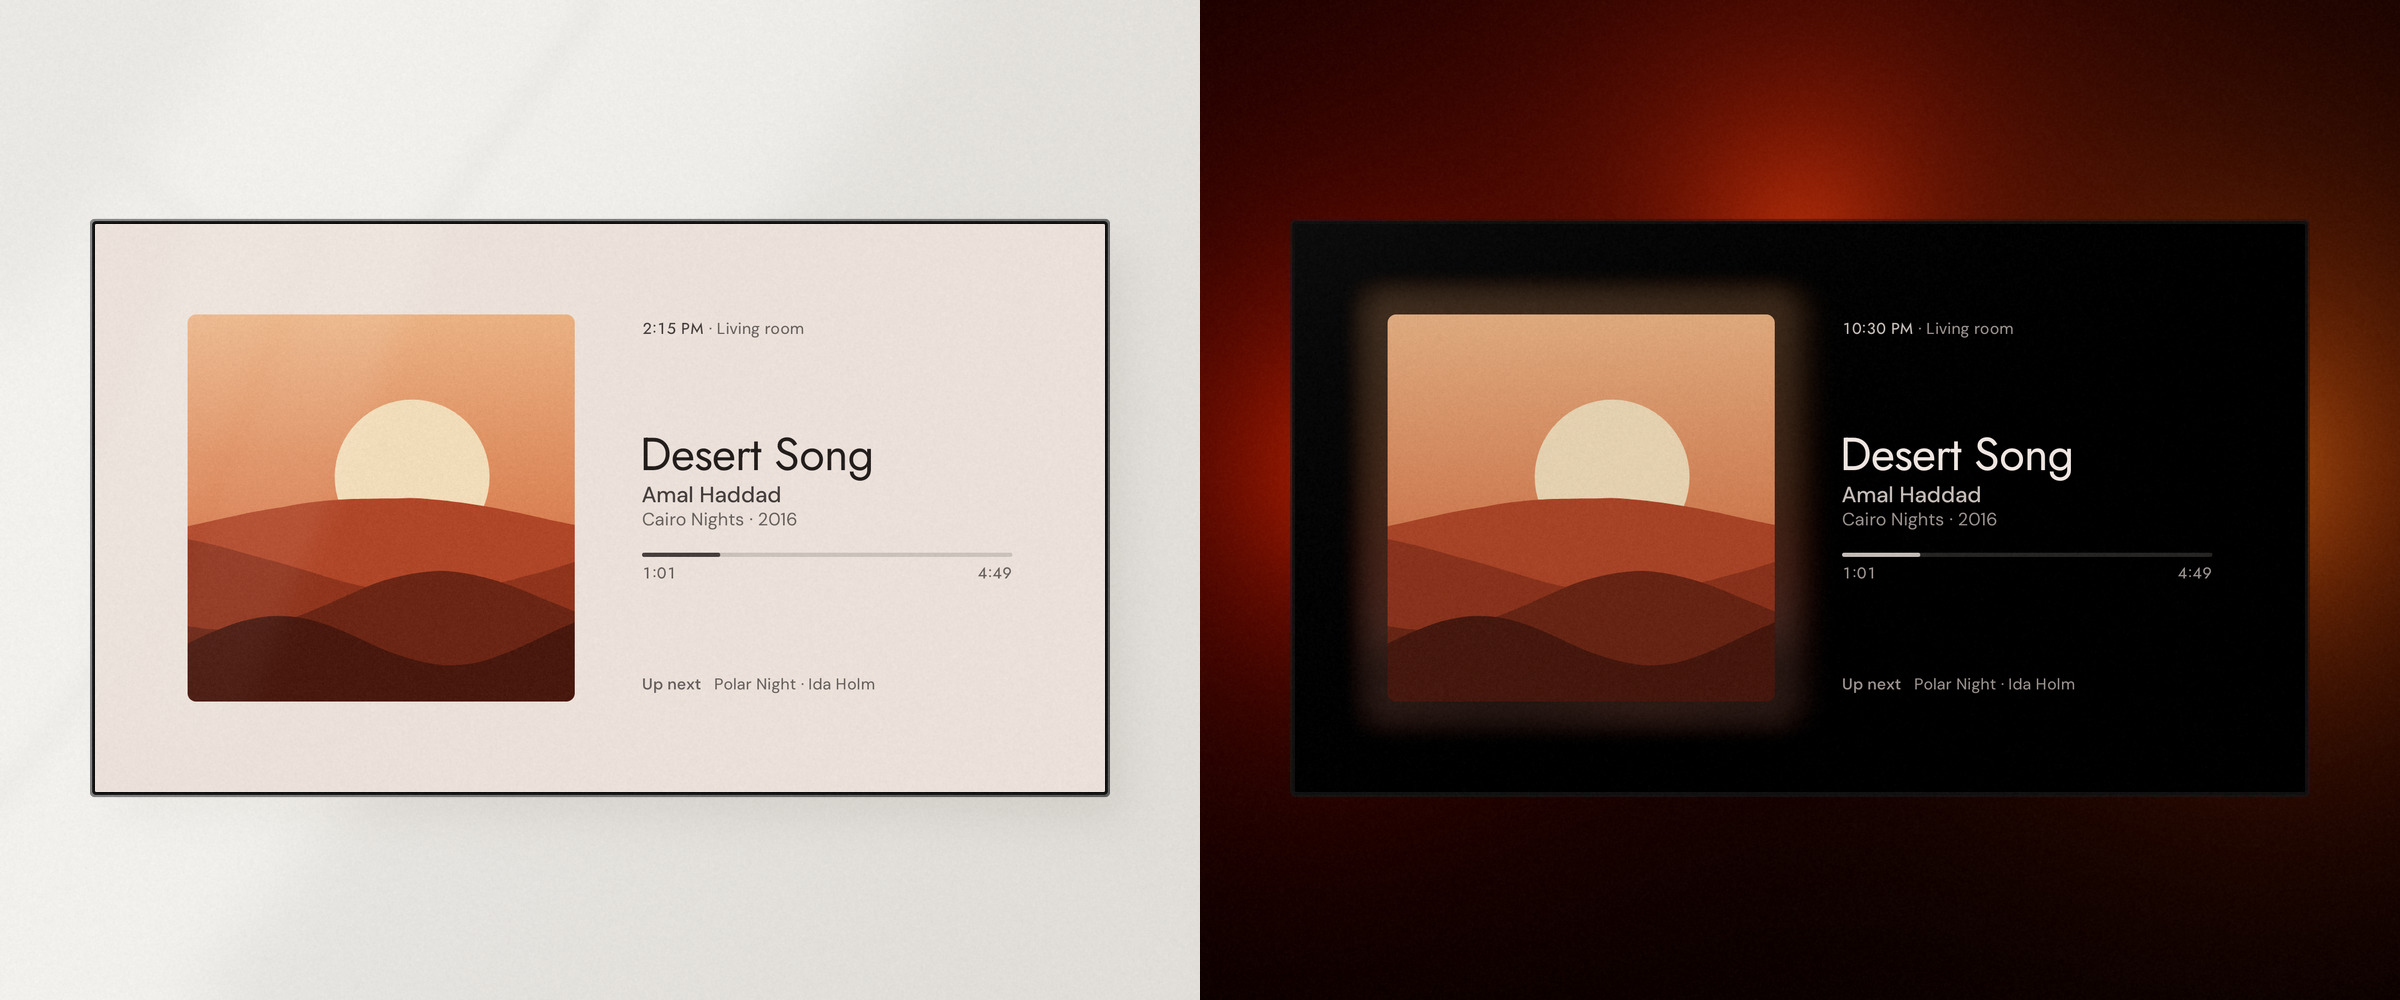
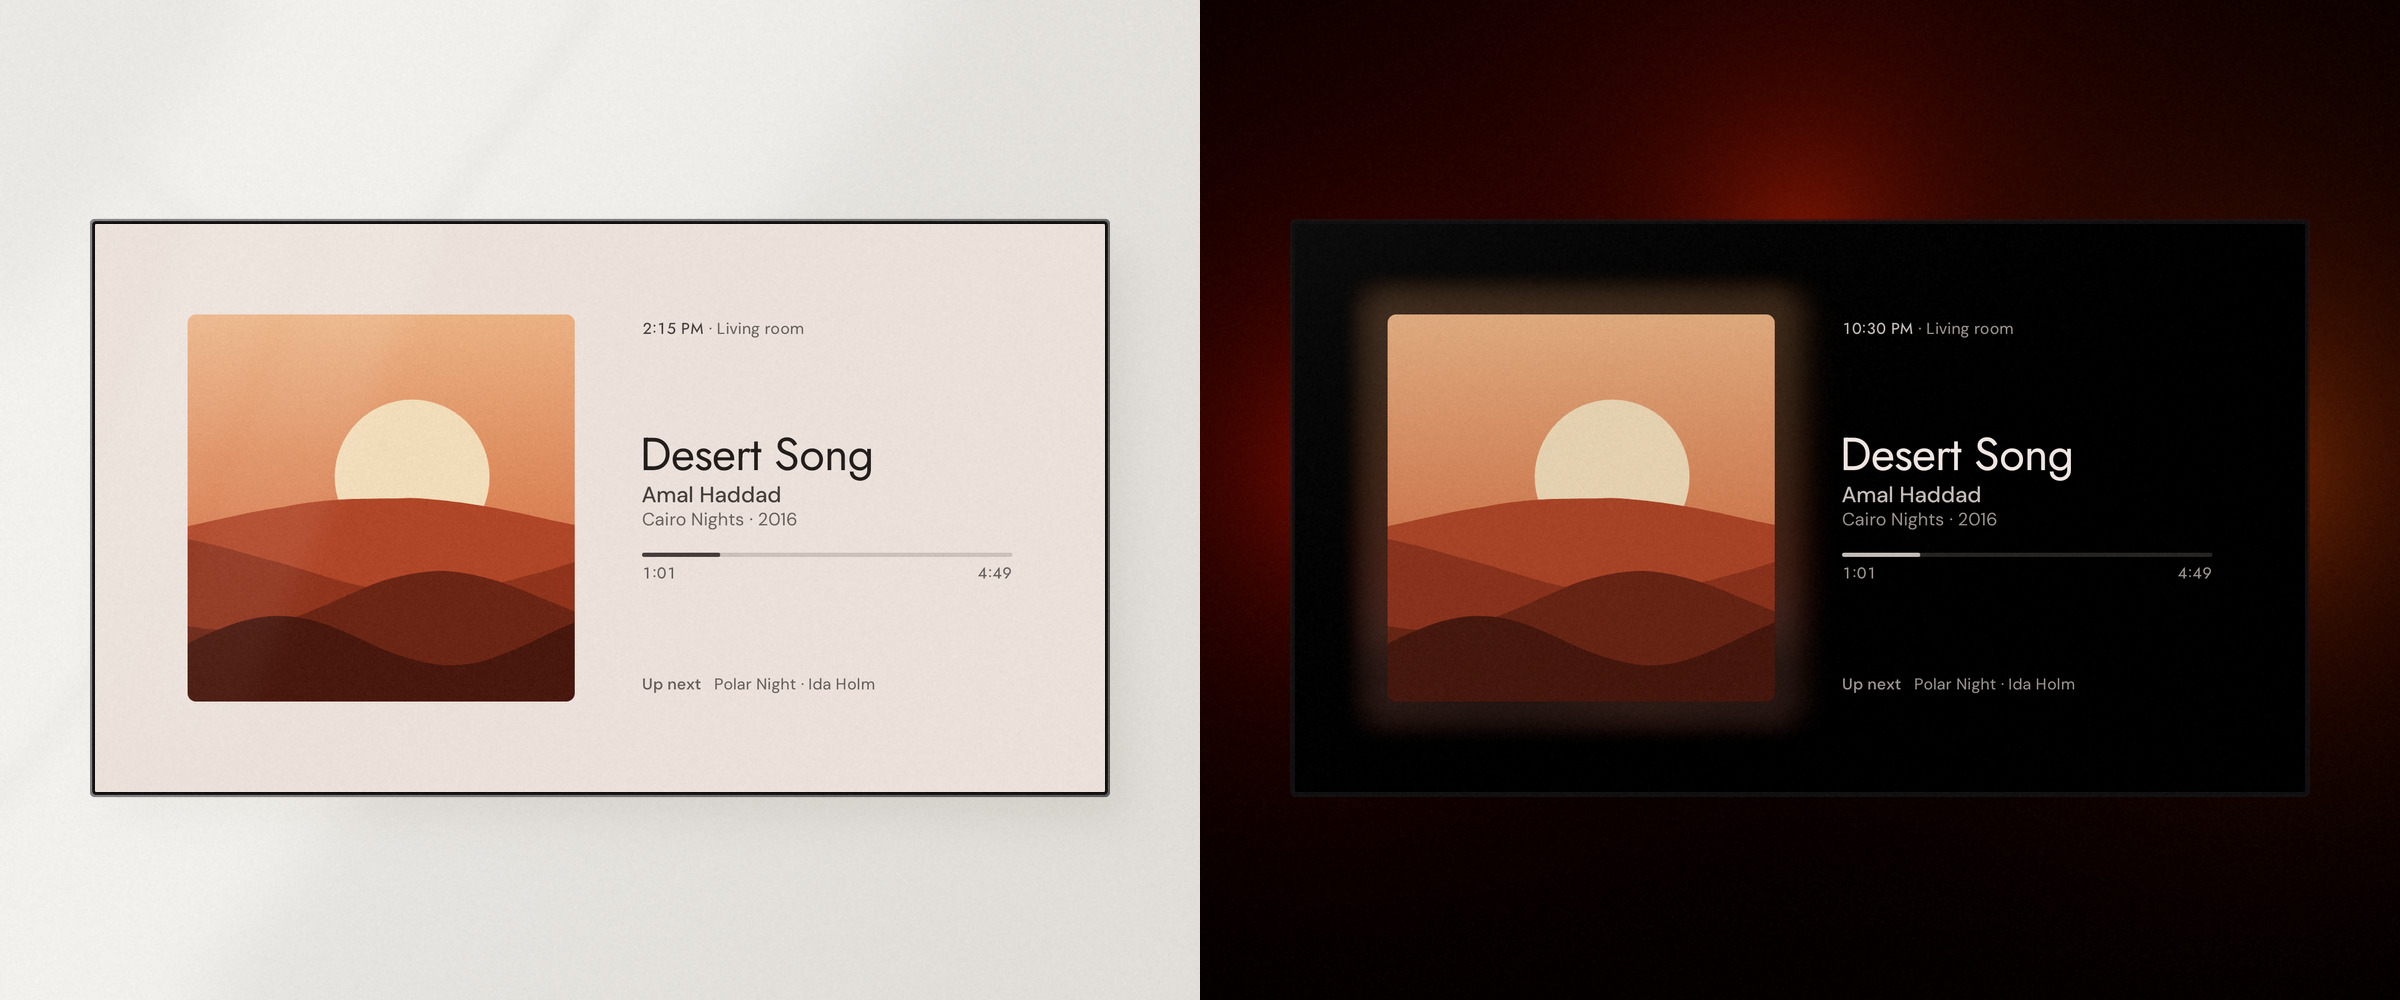
Calmer README pictures, window view by firelight
The lights' colors stay soft on a matte wall, the window view is lit
only by warm light like its campfire's, and the logo in the pictures
and on the download button is the updated one.

Changed region(s): [[0.5, 0.0, 1.0, 0.744]]

diff --git a/app/src/test/java/io/github/hazymorning/klangbild/ui/ReadmeShotsTest.kt b/app/src/test/java/io/github/hazymorning/klangbild/ui/ReadmeShotsTest.kt
@@ -18,16 +18,11 @@ import io.github.hazymorning.klangbild.lights.CoverLightColors
 import io.github.hazymorning.klangbild.lights.LightColor
 import io.github.hazymorning.klangbild.lights.LightColors
 import io.github.hazymorning.klangbild.lights.LightSlot
-import io.github.hazymorning.klangbild.lights.VistaLightColors
 import io.github.hazymorning.klangbild.render.ArtworkScene
 import io.github.hazymorning.klangbild.text.TestTexts
 import io.github.hazymorning.klangbild.ui.stage.Stage
 import io.github.hazymorning.klangbild.ui.vista.VistaScreen
-import io.github.hazymorning.klangbild.vista.PaperLight
-import io.github.hazymorning.klangbild.vista.Place
 import io.github.hazymorning.klangbild.vista.VistaClock
-import io.github.hazymorning.klangbild.vista.WeatherMood
-import io.github.hazymorning.klangbild.vista.World
 import org.junit.Before
 import org.junit.Test
 import org.junit.runner.RunWith
@@ -39,9 +34,9 @@ import java.time.ZonedDateTime
 import java.util.TimeZone
 
 /**
- * The screens in the README's pictures, in English, with the colors the lights behind the TV
- * would show beside each (a JSON file). `tools/make_readme_pictures.py` sets them in a room and
- * saves the pictures to docs/screenshots/ when the look changes.
+ * The screens in the README's pictures, in English; beside each song the colors the lights
+ * behind the TV would show (a JSON file). `tools/make_readme_pictures.py` sets them in a room
+ * and saves the pictures to docs/screenshots/ when the look changes.
  */
 @RunWith(AndroidJUnit4::class)
 @GraphicsMode(GraphicsMode.Mode.NATIVE)
@@ -103,10 +98,6 @@ class ReadmeShotsTest {
         shot("window-view") {
             VistaScreen(ui, ui.vista!!, vistaClock, positionNow = { 213_000L / 3 }, now = { at }, modifier = Modifier.fillMaxSize())
         }
-        val weather = WeatherMood.of("sunny", null, null)!!
-        val look = PaperLight.look(World.sky(at, Place(52.52, 13.40), Fixtures.zone, weather).first)
-        // The mini player stands left, so the fire burns on the right.
-        lights("window-view", VistaLightColors(look, fireOnRight = true), warmth = 1f)
     }
 
     /** One song twice: on the light wall by day and on the dark wall at night. */

diff --git a/tools/make_readme_pictures.py b/tools/make_readme_pictures.py
@@ -57,6 +57,20 @@ def xy_to_rgb(x, y):
     return rgb / rgb.max()
 
 
+def kelvin(k):
+    """The color of warm light of [k] kelvin (Planckian locus, Kim et al.), linear sRGB, peak 1."""
+    t = float(k)
+    x = (-0.2661239e9 / t ** 3 - 0.2343589e6 / t ** 2 + 0.8776956e3 / t + 0.179910) if t <= 4000 else \
+        (-3.0258469e9 / t ** 3 + 2.1070379e6 / t ** 2 + 0.2226347e3 / t + 0.240390)
+    if t <= 2222:
+        y = -1.1063814 * x ** 3 - 1.34811020 * x ** 2 + 2.18555832 * x - 0.20219683
+    elif t <= 4000:
+        y = -0.9549476 * x ** 3 - 1.37418593 * x ** 2 + 2.09137015 * x - 0.16748867
+    else:
+        y = 3.0817580 * x ** 3 - 5.87338670 * x ** 2 + 3.75112997 * x - 0.37001483
+    return xy_to_rgb(x, y)
+
+
 def light_colors(name, vivid=1.0):
     """The lights' colors for a render: left, middle, right (linear sRGB) and how bright each may
     be. [vivid] above 1 takes each a little further from white along its own hue."""
@@ -242,15 +256,16 @@ def tv_frame(img, tv, screen, glow_lin, sheen=0.05, window=0.0):
 
 # The pictures --------------------------------------------------------------------------------
 
-def dark_room(W, H, tv, colors, strength, albedo=(118, 116, 114), ambient=0.006, cool=(0.92, 0.96, 1.0)):
-    """A wall at night: the lamps behind the TV and a breath of light from the room, darker toward
-    the picture's edges. Returns the image (sRGB floats) and the wall's light (linear)."""
+def dark_room(W, H, tv, colors, strength, albedo=(122, 118, 114), ambient=0.008, room=2700):
+    """A wall in the evening: the lamps behind the TV and a breath of warm light from the room,
+    darker toward the picture's edges. Returns the image (sRGB floats) and the wall's light
+    (linear)."""
     lights = lamps(tv, colors, strength)
     y, x = np.mgrid[0:H, 0:W] + 0.5
     r2 = ((x - tv.cx) / (W * 0.6)) ** 2 + ((y - tv.cy) / (H * 0.7)) ** 2
-    room = (ambient * np.exp(-r2 * 1.3))[..., None] * np.array(cool)
+    fill = (ambient * np.exp(-r2 * 1.3))[..., None] * kelvin(room)
     paint = to_linear(list(albedo))
-    lin = wall(H, W, paint, room, lights)
+    lin = wall(H, W, paint, fill, lights)
     return to_srgb(tonemap(lin)), lin / paint
 
 
@@ -272,25 +287,27 @@ def now_playing():
     """The first picture: the song at night, the wall lit in its colors, the name above."""
     W, H = 2400, 1500
     tv = Tv(W / 2, 872, 1480, 9)
-    img, light = dark_room(W, H, tv, light_colors("now-playing", vivid=1.5), 1.8)
+    img, light = dark_room(W, H, tv, light_colors("now-playing"), 1.15)
     tv_frame(img, tv, os.path.join(RENDERS, "now-playing.png"), light * 0.16)
     wordmark(img, W / 2, 196, 54)
     save(img, "mockup-now-playing.jpg")
 
 
 def window_view():
-    """The window view at dusk: the room in the blue hour from a window far to the left, the
-    lights in the view's own colors, dim as at night (its sky above, its fire on the right)."""
+    """The window view in the evening: the room lit only by warm light, like the campfire's,
+    strongest on the fire's side."""
     W, H = 2400, 1350
     tv = Tv(W / 2, H / 2, 1600, 10)
-    colors = light_colors("window-view")
-    # The meadow's green on the left stays low beside the blue of the hour.
-    colors[0] = (colors[0][0], colors[0][1] * 0.35)
-    lights = lamps(tv, colors, 0.75)
+    fire = kelvin(2150)
+    ember = kelvin(2450)
+    colors = [(ember, 0.55), (ember, 0.32), (fire, 1.0)]
+    lights = lamps(tv, colors, 0.62)
     y, x = np.mgrid[0:H, 0:W] + 0.5
-    dusk = 0.26 * (0.25 + 0.75 * np.clip(1.1 - x / W, 0, 1) ** 1.6) * (1.05 - 0.35 * y / H)
-    paint = to_linear([130, 132, 140])
-    lin = wall(H, W, paint, dusk[..., None] * np.array([0.42, 0.56, 1.0]), lights)
+    # The fire's light fills the room a little, more on its side and low down.
+    glow = 0.5 + 0.5 * np.clip(x / W, 0, 1) + 0.25 * np.clip(y / H, 0, 1)
+    room = (0.020 * glow * np.exp(-(((x - tv.cx) / W) ** 2 + ((y - tv.cy) / H) ** 2) * 1.6))[..., None] * kelvin(2300)
+    paint = to_linear([128, 123, 118])
+    lin = wall(H, W, paint, room, lights)
     img = to_srgb(tonemap(lin))
     tv_frame(img, tv, os.path.join(RENDERS, "window-view.png"), lin / paint * 0.16)
     save(img, "mockup-window-view.jpg")
@@ -325,7 +342,7 @@ def day_and_night():
     tv = Tv(W / 2, H / 2 + 8, 1010, 5)
     day, rim = daylight_room(W, H, tv)
     tv_frame(day, tv, os.path.join(RENDERS, "day.png"), rim, sheen=0.03, window=0.10)
-    night, light = dark_room(W, H, tv, light_colors("night"), 1.15)
+    night, light = dark_room(W, H, tv, light_colors("night"), 0.5)
     tv_frame(night, tv, os.path.join(RENDERS, "night.png"), light * 0.16)
     save(np.concatenate([day, night], axis=1), "day-and-night.jpg")
 

diff --git a/CLAUDE.md b/CLAUDE.md
@@ -9,14 +9,16 @@ views, leaving it on, setup, the remote and privacy. Leave a feature out rather 
 sentence. Its pictures are mockups in `docs/screenshots/`: the app's own screens
 (`ReadmeShotsTest`, with the colors the lights behind the TV would show) set in a room by
 `tools/make_readme_pictures.py`, made again when the look changes, and the download button under
-the first paragraph. The logo (seven rounded squares rounding into a circle toward the middle, blue
-on night blue) is drawn by `tools/make_launcher_assets.py` for the banner, the icons, the mockups
-and the button, never scaled from a bitmap. Release notes are easy to scan and in everyday words: a
-small heading for each kind of change there is (`### New`, `### Better`, `### Bug fixes`), under it
-a few short points a user understands at once, nothing technical. As short as the release allows;
-up to 300 words only when a release needs them and every one is well spent. `docs/` holds only the
-notes of the releases on GitHub and the README's pictures: effort goes into the app, not into
-documents.
+the first paragraph. The mockups stay calm and real, as a photograph of a room would be: the
+lights' colors soft on a matte wall, the window view by warm firelight, no colorful backgrounds.
+The logo is `tools/logo.svg` (four rounded squares, each turned a little further toward the middle,
+a ring and a light dot, blue on night blue), drawn from it by `tools/make_launcher_assets.py` for
+the banner, the icons, the mockups and the button, never scaled from a bitmap. Release notes are
+easy to scan and in everyday words: a small heading for each kind of change there is (`### New`,
+`### Better`, `### Bug fixes`), under it a few short points a user understands at once, nothing
+technical. As short as the release allows; up to 300 words only when a release needs them and every
+one is well spent. `docs/` holds only the notes of the releases on GitHub and the README's
+pictures: effort goes into the app, not into documents.
 
 ## Writing rules (texts in both languages, the setup page, comments, docs, commits, PRs)
 
